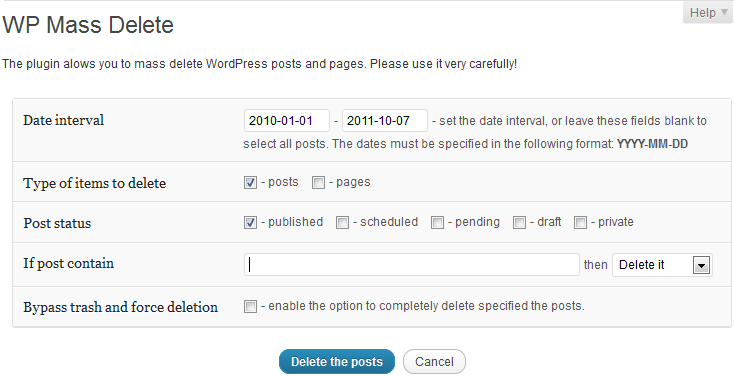
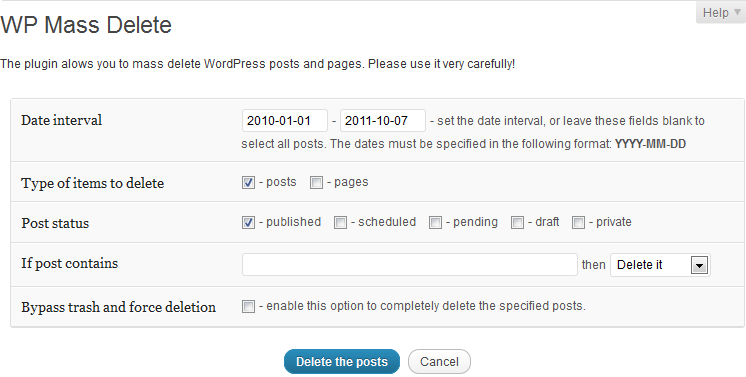
minor changes
git-svn-id: https://plugins.svn.wordpress.org/wp-mass-delete/trunk@451992 b8457f37-d9ea-0310-8a92-e5e31aec5664

diff --git a/wp-mass-delete.php b/wp-mass-delete.php
@@ -63,7 +63,7 @@ use it very carefully!</p>
                                 <tr valign="top">
                                         <th align="left">Bypass trash and force deletion</th>
                                         <td align="left"><input type="checkbox" name="force_delete"> -
-                                        enable the option to completely delete the specified posts.
+                                        enable this option to completely delete the specified posts.
 
                                 </tr>
 <?php
